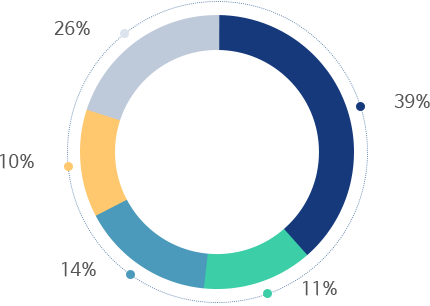
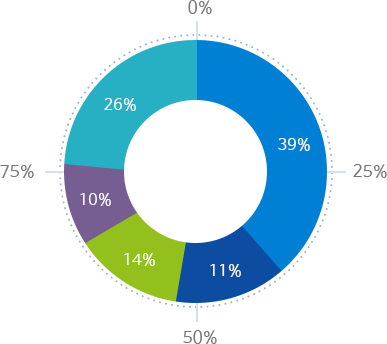
디자인수정

diff --git a/sscnt/css/ir.css b/sscnt/css/ir.css
@@ -90,7 +90,7 @@
 .dataStandard{position: relative;}
 .dataStandard span{position: absolute; right: 0; bottom: 0; z-index: 1; font-size: 16px; font-weight: 400; color: #777;}
 #CNT_K_042 section, .fieldWrap{margin-bottom: 60px;}
-.fieldWrap .fieldLeft{float: left; width: 431px; padding-left: 55px;}
+.fieldWrap .fieldLeft{float: left; width: 431px; padding-left: 74px;}
 .fieldWrap .fieldRight{float: right; width: 399px;}
 #CNT_K_042 .fieldLeft img{display: inline-block; width: 100%; max-width: 431px;}
 .tableData{border-top: 1px solid #0c4da2; border-bottom: 1px solid #777777;}
@@ -98,12 +98,12 @@
 .tableData th{position: relative; padding-left: 48px; text-align: left}
 .tableData td{text-align: right;}
 .tableData th:before{content: ''; position: absolute; left: 20px; top: 50%; z-index: 1; margin-top: -4px; width: 8px; height: 8px;}
-.tableData th.icoColor01:before{background-color: #15397b;}
-.tableData th.icoColor02:before{background-color: #3ccea7;}
-.tableData th.icoColor03:before{background-color: #4b9abb;}
-.tableData th.icoColor04:before{background-color: #ffc86e;}
-.tableData th.icoColor05:before{background-color: #bec9da;}
-
+.tableData th.icoColor01:before{background-color: #0080d5;}
+.tableData th.icoColor02:before{background-color: #0c4da2;}
+.tableData th.icoColor03:before{background-color: #94c01d;}
+.tableData th.icoColor04:before{background-color: #765e93;}
+.tableData th.icoColor05:before{background-color: #27b0c4;}
+#CNT_K_042 .tableBasicList + .contTit{margin-top: 40px;}
 
 /* IR - 주주총회 CNT_K_043 */
 .listTit{margin-bottom: 20px; font-size: 18px; line-height: 1.6;}
@@ -137,7 +137,6 @@
 .contactWrap h4 .emphasisTxt {font-size:42px; font-weight:600; line-height:1.4; margin-bottom:20px;}
 .contactWrap h4 > span {display:block;}
 .contactWrap .inquiryBtn {display:inline-block; width:157px; height:56px; line-height:56px; background:#0c4da2 url('/images/front/icon/ico_inquiry.png') no-repeat 30px center; padding-left:40px; box-sizing:border-box; color:#fff; font-size:18px;}
-
 
 /* COMMON STYLE */
 /* 아코디언 */
@@ -256,8 +255,7 @@
     /* IR - 주주구성 CNT_K_042 */
     #CNT_K_042 section, .fieldWrap {margin-bottom: 30px;}
     #CNT_K_042 .tableBasicList tfoot td {padding: 8px 10px; font-size: 15px;}
-
-
+    #CNT_K_042 .tableBasicList + .contTit{margin-top: 30px;}
 
     /* IR - FAQ CNT_K_045 */
     .faqWrap{padding-top: 0;}

diff --git a/sscnt/html/kor/ir/CNT_K_042.html b/sscnt/html/kor/ir/CNT_K_042.html
@@ -259,12 +259,35 @@
 				<div id="CNT_K_042" class="contents"> <!-- 페이지별 ID -->
 					<section>
 						<h4 class="contTit">총발행 주식수</h4>
-						<p class="mcolor02 txt">삼성물산의 발행주식 총수 : 191,317,483주</p>
-						<ul class="listBu">
-							<li>보통주 총수 : 189,690,043주(99.1%)</li>
-							<li>우선주 총수 : 1,627,440주(0.9%)</li>
-						</ul>
-
+					
+						<!-- 2018-06-26 기존 텍스트 > 테이블로 변경 시작 -->
+						<div class="tableBasicList">
+							<table class="defaultTable minW100">
+								<caption>총발행 주식수</caption>
+								<colgroup>
+									<col style="width:50%">
+									<col style="width:50%">
+								</colgroup>
+								<thead>
+									<tr>
+										<th scope="col">삼성물산의 발행주식 총수</th>
+										<th scope="col">191,317,483주</th>
+									</tr>
+								</thead>
+								<tbody>
+									<tr>
+										<td>보통주 총수</td>
+										<td>189,690,043주(99.1%)</td>
+									</tr>
+									<tr>
+										<td>우선주 총수</td>
+										<td>1,627,440주(0.9%)</td>
+									</tr>
+								</tbody>
+							</table>
+						</div>
+						<!-- 2018-06-26 기존 텍스트 > 테이블로 변경 끝 -->
+						
 						<h4 class="contTit">주주 구성</h4>
 						<h5 class="contTitsub color01 dataStandard">보통주<span>※  2017년 12월 31일 기준</span></h5>
 						
@@ -274,7 +297,7 @@
 							<div class="tableData fieldRight">
 								<table class="defaultTable minW100">
 									<caption>보통주 주주현황 - 최대주주 및 그 특수관계인, 국내기관, 자사주, 외국인, 국내개인 및 기타</caption>
-									<colgroup>
+									<colgroup> 
 										<col style="width:66%;">
 										<col style="width:auto;">
 									</colgroup>

diff --git a/sscnt/html/kor/corporate/CNT_K_051.html b/sscnt/html/kor/corporate/CNT_K_051.html
@@ -237,7 +237,7 @@
 				</div>
 
 				<div id="CNT_K_051" class="contents"> <!-- 페이지별 ID -->
-					<div class="titleBox"> <!-- 2018-06-22 수정 -->
+					<div class="titleBox bg02"> <!-- 2018-06-22 수정 -->
 						<div class="selectTab">
 							<strong class="select"><button type="button">제1장 총칙</button></strong>
 							<ul>
@@ -254,7 +254,7 @@
 						</div>
 					</div>
 					<!-- 제 1장 총칙 -->
-					<article class="corporate" style="display: none;">
+					<article class="corporate">
 						<section>
 							<p class="subTit color01">제 1조 (상호)</p> <!-- 2018-06-22 수정 -->
 							<p class="txt">본 회사는 삼성물산주식회사라 칭하며,&nbsp;영문으로는 SAMSUNG C&amp;T CORPORATION 으로 표기한다.</p>
@@ -592,7 +592,7 @@
 						</section>
 					</article>
 					<!-- // 제3장 주주총회 -->
-<!-- 2018-06-25 클래스 추가 -->
+
 					<!-- 제4장 이사, 이사회 -->
 					<article class="corporate" style="display: none;">
 						<section>
@@ -892,7 +892,7 @@
 					<!-- // 제7장 계열회사 등 특수관계인과의 거래 -->
 
 					<!-- 부칙 -->
-					<article class="corporate">
+					<article class="corporate" style="display: none;">
 						<strong class="smallTit mcolor02">부 칙(2015.3.13)</strong> <!-- 2018-06-25 클래스 추가 -->
 						<section>
 							<p class="subTit color01">제 1조</p>

diff --git a/sscnt/css/corporate.css b/sscnt/css/corporate.css
@@ -15,7 +15,9 @@
 .corporate.type01{margin-top: 0;}
 .titleBox{padding: 50px 30px; background: url(/images/front/contents/bg_CNT_K_051.jpg) no-repeat; background-size: cover;}
 .titleBox.bg01{padding: 50px 65px;}
-.titleBox.bg02{padding: 106px 30px;}
+.titleBox.bg02{background-image: url(/images/front/contents/bg_CNT_K_051.jpg);}
+.titleBox.bg04{background-image: url(/images/front/contents/bg_CNT_K_057.jpg);}
+.titleBox.bg05{padding: 106px 30px; background-image: url(/images/front/contents/bg_CNT_K_063.jpg);}
 .innerTxt{text-align: center; font-size: 18px; color: #ffffff; line-height: 1.4;}
 .innerTxt span, .txt span{display: block;}
 .titleBox + .btnArea{margin-top: 20px;}

diff --git a/sscnt/path_kor.html b/sscnt/path_kor.html
@@ -1098,7 +1098,7 @@
 					<td class="txt">
 						<ul>
 							<li>2018-06-22 그래프 추가 및 일부 태그 순서 변경</li>
-							<li>2018-06-26 minW100 클래스 추가</li>
+							<li>2018-06-26 html 변경</li>
 						</ul>
 					</td>
 				</tr>
@@ -1474,7 +1474,7 @@
 					<td class="check">○</td> <!-- 완료 체크 : 복붙 "○" 참고 -->
 					<td class="txt">
 						<ul>
-							<li></li>
+							<li>2018-06-26 클래스 변경</li>
 						</ul>
 					</td>
 				</tr>

diff --git a/sscnt/html/kor/corporate/CNT_K_057.html b/sscnt/html/kor/corporate/CNT_K_057.html
@@ -250,7 +250,7 @@
 				</div>
 
 				<div id="CNT_K_057" class="contents"> <!-- 페이지별 ID -->
-					<div class="titleBox bg01">
+					<div class="titleBox bg04"><!-- 2018-06-26 bg01 > bg04 변경 -->
 						<div class="selectTab">
 							<strong class="select"><button type="button"></button></strong>
 							<ul>
